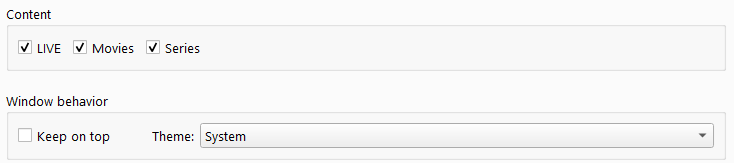
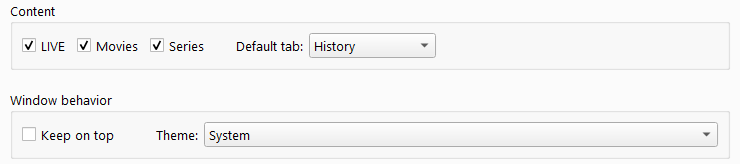
Update V3 user guide and screenshots

diff --git a/README.md b/README.md
@@ -10,66 +10,23 @@ This IPTV player, built with Python and PyQt5, supports Xtream Codes accounts, i
 [**View all releases**](https://github.com/Youri666/Xtream-m3u_plus-IPTV-Player/releases)
 
 > [!IMPORTANT]
-> **V3.1.1 Beta is available for testing.** This preview adds faster account switching, customizable per-account tabs, EPG time offsets, direct VOD link export, and several Internal Player improvements. Download it from the [Releases page](https://github.com/Youri666/Xtream-m3u_plus-IPTV-Player/releases) and report any problem through [GitHub Issues](https://github.com/Youri666/Xtream-m3u_plus-IPTV-Player/issues).
-
-## What's new in V3.1.1 Beta
-
-- Quickly switch between IPTV accounts from the selector above the tabs.
-- Reorder tabs independently for each account and choose a default tab or **Last selected tab**.
-- Keep the same functional tab selected when switching between accounts.
-- Adjust EPG times independently for each IPTV account.
-- Automatically continue with the next playlist item, optionally before the final credits end.
-- Seek by dragging the progress bar or using the mouse wheel over the player controls.
-- Configure the Internal Player network buffer.
-- Copy or save direct download URLs for movies, episodes, seasons, and complete series from their context menus.
-- Optionally enrich missing movie and series details with a personal TMDB API Read Access Token.
-- Receive automatic update notifications for newer beta releases while testing a beta version.
-- Close IPTV Player automatically after accepting an available update.
-- Improved account setup guidance, Xtream URL wording, Linux documentation, and general interface consistency.
-
-# What's new in V3
-
-Version 3 is a major refactoring of the application aimed at making the codebase easier to maintain, test, debug, and extend. Most of the existing functionality has been reorganized into clearer and more reusable components, while several user-facing improvements have also been introduced.
-
-| | |
-|---|---|
-| **Major codebase refactoring** | The application has been reorganized into a proper package structure with clearer separation between UI, provider communication, configuration, media playback, caching, application startup, and shared utilities. Obsolete compatibility code and duplicated logic have also been removed. |
-| **Improved maintainability and testing** | Shared components have been extracted and standardized, including themes, navigation widgets, settings dialogs, information panels, sorting, search, account management, provider access, and application bootstrap logic. Regression tests were also introduced to help prevent future changes from breaking existing behavior. |
-| **Safer configuration management** | Configuration handling has been extensively refactored. INI writes are now centralized and atomic, application defaults and preferences are managed consistently, and configuration migrations allow older user settings to be upgraded safely between versions. |
-| **Better multi-account support** | IPTV accounts now use stable internal identifiers. Provider caches, favorites, category state, and category preferences are isolated per account. The active account is shown in a selector above the tabs so accounts can be switched quickly. |
-| **Improved provider and cache handling** | Xtream API communication, credential parsing, stream URL generation, EPG decoding, provider details, catalog preparation, JSON storage, and caching are now handled by dedicated reusable components. Provider catalogs are stored locally in separate caches for each IPTV account, improving data isolation and reducing loading times when cached data can be reused. |
-| **Improved search and sorting** | Title search relevance has been improved and search views now reuse the same sorting logic as the main playlists, providing more consistent results throughout the application. |
-| **Player improvements** | Internal and external player handling has been reorganized and made more robust. The application now handles unavailable internal VLC configurations more cleanly, external VLC receives the media title, and the embedded player's controls have been made more compact and consistent. Internal playback automatically pauses when minimized and resumes when restored. Optional automatic episode advancement can skip the final seconds, while the progress bar supports drag seeking and mouse-wheel seeking. |
-| **User interface improvements** | Category lists now display item counts, account dialogs better accommodate long URLs, passwords can be shown while editing accounts, favorites refresh immediately after changes, and several UI components have been cleaned up and standardized. |
-| **Unified build and debug workflows** | Windows, MacOS, and Linux build workflows now follow the same release/debug approach, use more consistent Python detection, and provide improved diagnostics for troubleshooting packaged builds. |
-| **Improved stability and diagnostics** | Network settings, application resources, update checks, player preferences, general preferences, and advanced settings have been centralized. Additional diagnostics and cleanup logic make runtime and startup problems easier to identify. |
+> **V3.1.1 Beta is available for testing.** Download it from the [Releases page](https://github.com/Youri666/Xtream-m3u_plus-IPTV-Player/releases) and report any problem through [GitHub Issues](https://github.com/Youri666/Xtream-m3u_plus-IPTV-Player/issues).
 
 # Features
 
 - **Windows, MacOS, and Linux support**
-- **Xtream M3U Plus URL support:** Extract account credentials from an Xtream `get.php` URL and load the catalog through the Xtream API. Generic M3U playlists are not supported.
-- **Xtream Codes API:** Log in with Xtream credentials and dynamically load content.
-- **Categorized playlists:** Content is organized into Live TV, Movies, and Series tabs for easy navigation.
-- **Favorites:** Add items to Favorites and find them in the dedicated Favorites category.
-- **Per-account favorites:** Favorites are stored independently for each IPTV account.
-- **Quick account switching:** Switch between configured IPTV accounts more easily.
-- **Per-account category preferences:** Category state and preferences are stored independently for each IPTV account.
-- **EPG support:** Access and download Electronic Program Guide data for live TV channels.
-- **Movie and series information:** Display additional information such as cover, description, cast, trailer, TMDB information, and more when available.
-- **Series navigation:** Browse series, seasons, and episodes with efficient Go Back navigation.
-- **VOD link export:** Copy or save direct download URLs for movies, episodes, seasons, and complete series.
-- **Improved search:** Search categories and content with more relevant title matching.
-- **Search history:** Use the Up and Down arrow keys to access previously searched text.
-- **Sorting:** Sort lists A-Z, Z-A, or disable sorting. The default sorting behavior can be configured in Settings.
-- **Category item counts:** Category lists display the number of available items.
-- **Internal player:** Built-in libVLC-based player for playing IPTV content directly inside the application.
-- **Playback resume:** When using the internal player, partially watched content can be resumed, restarted from the beginning, or canceled.
-- **External player support:** Play channels, movies, and series using an external media player such as VLC or SMPlayer.
-- **Themes:** Light, Dark, and System theme support.
-- **Info tab:** Display IPTV account status and account information.
-- **Adjustable column widths:** Resize columns in each tab by dragging their edges.
-- **Error handling:** Graceful handling of loading, configuration, and playback errors.
-- **Cross-platform builds:** Dedicated build scripts are provided for Windows, MacOS, and Linux.
+- **Xtream account support:** Sign in manually or extract credentials from an Xtream M3U Plus `get.php` URL. Generic M3U playlists are not supported.
+- **Multi-account profiles:** Keep favorites, category choices, EPG offsets, tab order, default tab, and cached catalogs separate for each account.
+- **Live TV, Movies, and Series:** Browse categorized catalogs with search, remembered sorting, item counts, favorites, and detailed information panels.
+- **EPG:** View program schedules and descriptions with an account-specific time offset.
+- **History and playback resume:** Return to recently played content and resume partially watched media.
+- **Internal VLC player:** Use playlist navigation, configurable seeking and buffering, subtitles, audio tracks, fullscreen, and optional automatic advancement to the next item.
+- **External players:** Open content in applications such as VLC or SMPlayer.
+- **Movie and Series metadata:** View provider information and optionally fill missing details, posters, and trailers with a personal TMDB API Read Access Token.
+- **VOD link export:** Copy direct URLs or save structured link lists for movies, episodes, seasons, and complete series.
+- **Personalized interface:** Reorder tabs, choose the startup tab, resize columns, and use Light, Dark, or System themes.
+- **Update notifications:** Check manually or automatically for stable releases; beta builds can also follow newer beta versions.
+- **Cross-platform build scripts:** Create Windows, MacOS, and Linux packages from isolated local Python environments.
 
 ### Recommended media players
 
@@ -88,6 +45,8 @@ For external playback, VLC and SMPlayer are supported:
 ## Main interface
 
 The main interface is organized into six tabs: **Live**, **Movies**, **Series**, **History**, **Info**, and **Settings**.
+
+Tabs can be reordered by dragging them. Their order is saved independently for each IPTV account. The tab shown at startup can be selected with **Default tab** under **Settings → Content and appearance**, including an option to restore the last selected tab.
 
 The **Live**, **Movies**, and **Series** tabs all use the same three-column layout:
 - **Left column:** categories
@@ -109,7 +68,7 @@ Each section shows the **last viewed date/time** and the corresponding **title**
 
 The maximum number of history entries is configurable in **Advanced Settings**. The default value is **50 items per content type**.
 
-The History feature is still under development, but playback resume support is already available with the internal player.
+History is stored independently for each IPTV account. Activating an entry opens its original tab and category, then selects the corresponding channel, movie, or episode so it can be found quickly. The Internal Player can resume partially watched content from its saved position. If an item is no longer present in the provider catalog, its obsolete entry is automatically removed from History.
 
 ![History tab showing recently viewed Live, Movies and Series content](Screenshots/history-tab.png)
 
@@ -146,7 +105,9 @@ Two account input methods are available:
 
 ![M3U_plus account configuration](Screenshots/add-account-m3u-plus.png)
 
-Stream URL formats are fully editable because IPTV providers do not always use the same URL structure.
+Stream URL formats are fully editable because IPTV providers do not always use the same URL structure. If Live TV does not work with the default format, hover over **Live URL format** to display a tooltip with common alternative formats.
+
+Each account can use its own **EPG time offset** to correct schedule times by up to 12 hours in either direction. Use **Test connection** to validate the credentials and account status before saving, without downloading the full provider catalog.
 
 The **Startup account** selects which account should be loaded when the application starts. The **Active account** can be used to switch immediately between configured IPTV accounts.
 
@@ -212,7 +173,11 @@ The internal player has its own configurable options:
 
 ![Internal player settings](Screenshots/internal-player-settings.png)
 
-These settings control seek steps, volume steps, playback-speed steps, preferred audio and subtitle languages, what should happen when opening media that was previously started, and whether playback should automatically continue with the next item. Automatic advancement can occur at the end or a configurable number of seconds before the end to skip credits. The streaming buffer size can also be adjusted.
+These settings control seek, volume, and playback-speed steps, preferred audio and subtitle languages, and what should happen when opening media that was previously started. They also include:
+
+- **Automatically play the next item** — continue through the current playlist without manual input.
+- **Play next item** — start the next item at the end or up to 300 seconds before the current item finishes, allowing final credits to be skipped.
+- **Network buffer** — adjust VLC network caching for streamed media.
 
 When **Previously started media** is set to **Ask**, the player can offer to **Resume**, **Restart**, or **Cancel** playback.
 
@@ -227,7 +192,7 @@ Advanced settings provide additional control over:
 - LIVE stream availability checks
 - detailed diagnostic logging
 - History size and cleanup
-- optional TMDB metadata enrichment
+- optional TMDB metadata enrichment with a connection test
 
 When **LIVE stream status checks** are enabled, the Live TV information panel displays a small status indicator for the selected stream: **green** when the stream is available and **red** when it is unavailable. This check can be disabled from Advanced Settings.
 
@@ -248,11 +213,15 @@ The application can check for new releases manually with **Check for updates**, 
 
 The built-in **Internal Player** provides direct playback using the installed VLC engine.
 
-The playlist panel can be shown or hidden with the button in the upper-left corner. It displays the current list and includes a filter field for quickly finding an item.
+The button in the upper-left corner shows or hides the playlist panel. Its content follows where playback was started: for example, launching an episode from a Series season makes the other episodes from that season available for quick navigation. The panel also includes a filter field.
 
 Playback controls provide previous/next navigation, play/pause, seeking, playback speed, volume, audio track selection, subtitles when available, and fullscreen mode.
 
-The progress bar supports standard drag seeking: hold the left mouse button, move to the desired position, and release to seek. The mouse wheel can also seek backward or forward while the pointer is over the playback controls. Multiple wheel steps are accumulated briefly before the new position is applied, allowing precise adjustments. Over the volume control or video area, the wheel continues to adjust volume.
+- Drag the progress bar with the left mouse button to move backward or forward.
+- Use the mouse wheel over the progress bar to seek in configurable steps. Multiple wheel movements are briefly accumulated to allow precise seeking.
+- Use the mouse wheel over the video or volume control to adjust the volume.
+- During Live TV playback, **LIVE** is displayed instead of a playback position.
+- Minimizing the player automatically pauses playback; restoring the window resumes it.
 
 ### Keyboard shortcuts
 
@@ -270,42 +239,23 @@ The progress bar supports standard drag seeking: hold the left mouse button, mov
 ![Internal player showing the playlist and playback controls](Screenshots/internal-player.png)
 
 
-<details>
-<summary><h1>Debug</h1></summary>
+# What's new in V3
 
-This section contains technical information intended mainly for development, troubleshooting, and testing.
+Version 3 reorganizes the application into clearer, reusable components and adds automated regression tests, safer configuration migrations, and more consistent behavior across Windows, MacOS, and Linux. The upcoming V3.1 update extends that foundation with more account personalization, playback controls, metadata, and export options.
 
-<details>
-<summary><h2>Configuration migrations</h2></summary>
+| | |
+|---|---|
+| **Refactored and tested codebase** | The interface, provider access, configuration, storage, caching, themes, playback, and startup logic now use dedicated components. Automated tests cover the main workflows and bug fixes. |
+| **Safer configuration and diagnostics** | Settings are written atomically and upgraded through configuration migrations. Network options, privacy-conscious logging, and isolated build environments make the application easier to maintain and troubleshoot. |
+| **Better multi-account support** | Accounts use stable identifiers and keep their catalogs, favorites, category preferences, EPG offsets, tab order, default tab, and last selected tab independently. The account selector provides quick switching without losing the current functional tab. |
+| **Improved catalogs and navigation** | Shared Live, Movies, and Series components provide consistent searching, sorting, category counts, favorite handling, and stale-selection cleanup. Provider caching can reduce startup and account-switching time. |
+| **Richer information panels** | Movie and Series descriptions use the available space more effectively, Live EPG descriptions are easier to read, and optional TMDB enrichment can fill metadata, posters, and trailers missing from the provider. |
+| **VOD link export** | Context menus can copy direct Movie or Episode URLs, or save structured link files for Movies, Episodes, Seasons, and complete Series. Sensitive URLs and credentials are excluded from diagnostic logs. |
+| **Internal Player improvements** | Playback can pause when minimized, resume previously started media, advance automatically to the next item, skip final credits, use configurable network buffering, and seek by dragging or using the mouse wheel. |
+| **Interface and update improvements** | Themes follow Windows, MacOS, and Linux more reliably, dialogs and information panels have been polished, and beta builds can detect newer beta releases as well as the corresponding stable release. |
 
-`userdata.ini` records the version of its persisted-data schema:
 
-```ini
-[Application]
-config_schema_version = 1
-```
-
-`config_schema_version` identifies the structure and meaning of the persisted data.
-
-When a major or minor update changes that structure, the application can compare this number with `CURRENT_CONFIG_SCHEMA_VERSION` and apply every missing migration in order.
-
-For example, schema 1 converts the former combined `VOD` option into independent LIVE, Movies, and Series options while preserving the user's previous choice.
-
-This value is deliberately separate from `CURRENT_VERSION`. The application version is already compiled into the executable and is used by the GitHub update checker; storing it again in `userdata.ini` would be redundant. Most application releases do not change the configuration schema.
-
-When adding a configuration migration:
-
-1. Increment `CURRENT_CONFIG_SCHEMA_VERSION`.
-2. Add an ordered `if stored_schema_version < N` block to `updateUserDataFile()`.
-3. Make the migration safe to run repeatedly and preserve existing user preferences.
-4. Update the stored schema marker only after the migration blocks have completed.
-
-The loader preserves a schema number newer than the current application understands. This prevents an older build from incorrectly marking a future configuration as an older schema.
-
-</details>
-
-<details>
-<summary><h2>How to compile the source code</h2></summary>
+# How to compile the source code
 
 All build scripts create a local `.venv`, install PyInstaller and the application
 dependencies from `requirements-build.txt`, and use that isolated environment.
@@ -411,7 +361,29 @@ The generated files are written to the `dist` directory.
 
 </details>
 
-</details>
+# Configuration migrations
 
-</details>
+`userdata.ini` records the version of its persisted-data schema:
+
+```ini
+[Application]
+config_schema_version = 1
+```
+
+`config_schema_version` identifies the structure and meaning of the persisted data.
+
+When a major or minor update changes that structure, the application can compare this number with `CURRENT_CONFIG_SCHEMA_VERSION` and apply every missing migration in order.
+
+For example, schema 1 converts the former combined `VOD` option into independent LIVE, Movies, and Series options while preserving the user's previous choice.
+
+This value is deliberately separate from `CURRENT_VERSION`. The application version is already compiled into the executable and is used by the GitHub update checker; storing it again in `userdata.ini` would be redundant. Most application releases do not change the configuration schema.
+
+When adding a configuration migration:
+
+1. Increment `CURRENT_CONFIG_SCHEMA_VERSION`.
+2. Add an ordered `if stored_schema_version < N` block to `updateUserDataFile()`.
+3. Make the migration safe to run repeatedly and preserve existing user preferences.
+4. Update the stored schema marker only after the migration blocks have completed.
+
+The loader preserves a schema number newer than the current application understands. This prevents an older build from incorrectly marking a future configuration as an older schema.
 
